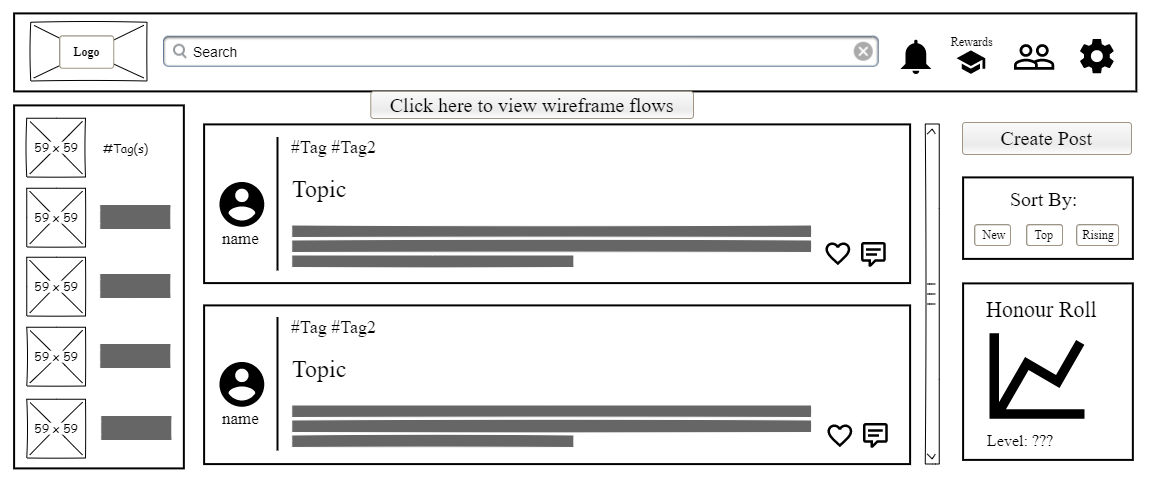
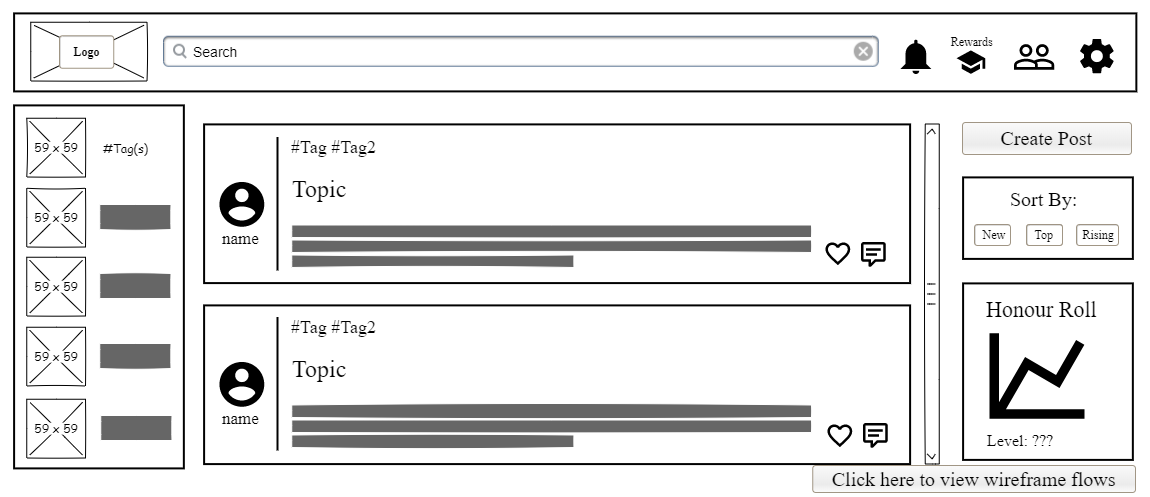
Add files via upload

diff --git a/index.html b/index.html
@@ -1,2 +1,2 @@
 <html xmlns="http://www.w3.org/1999/xhtml" xmlns:p="http://www.evolus.vn/Namespace/Pencil" xmlns:html="http://www.w3.org/1999/xhtml"><head><meta http-equiv="Content-Type" content="text/html; charset=UTF-8" />
-<title>wireframe</title><link rel="stylesheet" href="Resources/style.css" /><script type="application/javascript" src="Resources/script.js"></script></head><body><h1 id="documentTitle">wireframe</h1><p id="documentMetadata">Exported at: Mon Apr 13 2020 19:51:25 GMT-0400 (Eastern Daylight Time)</p><div class="Page" id="main_page_page"><h2>Main Page</h2><div class="ImageContainer"><img src="pages\main_page.png" width="1150" height="497" usemap="#map_main_page" /></div><map name="map_main_page"><area shape="rect" coords="370.75,91.50003051757812,693.5,118.500030517578" href="#flow_chart_image_page" title="Go to page 'Flow Chart Image'" /><area shape="rect" coords="278.5002746582031,306.4001159667969,908.850250244141,465.088134765625" href="#comment_page_page" title="Go to page 'Comment Page'" /><area shape="rect" coords="215,359,267,430" href="#user_profile_page" title="Go to page 'User Profile'" /><area shape="rect" coords="216,177,268,248" href="#user_profile_page" title="Go to page 'User Profile'" /><area shape="rect" coords="1074,36,1122,76" href="#settings_page" title="Go to page 'Settings'" /><area shape="rect" coords="1011,36,1059,76" href="#friends_list_page" title="Go to page 'Friends List'" /><area shape="rect" coords="948,36,996,76" href="#honor_roll_page" title="Go to page 'Honor Roll'" /><area shape="rect" coords="891,36,939,76" href="#notifications_page" title="Go to page 'Notifications'" /><area shape="rect" coords="962.5,122.5000228881836,1131.5,154.500030517578" href="#make_a_post_page" title="Go to page 'Make a Post'" /><area shape="rect" coords="26.750030517578125,399.25006103515625,85.6875305175781,458.187561035156" href="#search_results_page" title="Go to page 'Search Results'" /><area shape="rect" coords="26.750017166137695,327.25006103515625,85.6875171661377,386.187561035156" href="#search_results_page" title="Go to page 'Search Results'" /><area shape="rect" coords="26.750028610229492,257.2501525878906,85.6875286102295,316.187652587891" href="#search_results_page" title="Go to page 'Search Results'" /><area shape="rect" coords="26.75001335144043,188.2500457763672,85.6875133514404,247.187545776367" href="#search_results_page" title="Go to page 'Search Results'" /><area shape="rect" coords="26.000024795532227,118.25007629394531,85.5000247955322,177.187576293945" href="#search_results_page" title="Go to page 'Search Results'" /><area shape="rect" coords="163,35.75004196166992,878.75,66.7500457763672" href="#search_results_page" title="Go to page 'Search Results'" /><area shape="rect" coords="278.5002746582031,125.40011596679688,908.850250244141,284.088134765625" href="#comment_page_page" title="Go to page 'Comment Page'" /></map></div><div class="Page" id="honor_roll_page"><h2>Honor Roll</h2><div class="ImageContainer"><img src="pages\honor_roll.png" width="1150" height="497" usemap="#map_honor_roll" /></div><map name="map_honor_roll"><area shape="rect" coords="26.750030517578125,400.25006103515625,85.6875305175781,459.187561035156" href="#search_results_page" title="Go to page 'Search Results'" /><area shape="rect" coords="26.750015258789062,328.25006103515625,85.6875152587891,387.187561035156" href="#search_results_page" title="Go to page 'Search Results'" /><area shape="rect" coords="26.750030517578125,258.2501525878906,85.6875305175781,317.187652587891" href="#search_results_page" title="Go to page 'Search Results'" /><area shape="rect" coords="26.750015258789062,189.2500457763672,85.6875152587891,248.187545776367" href="#search_results_page" title="Go to page 'Search Results'" /><area shape="rect" coords="26.00002670288086,119.25007629394531,85.5000305175781,178.187576293945" href="#search_results_page" title="Go to page 'Search Results'" /><area shape="rect" coords="1074,36,1122,76" href="#settings_page" title="Go to page 'Settings'" /><area shape="rect" coords="1011,36,1059,76" href="#friends_list_page" title="Go to page 'Friends List'" /><area shape="rect" coords="948,36,996,76" href="#honor_roll_page" title="Go to page 'Honor Roll'" /><area shape="rect" coords="891,36,939,76" href="#notifications_page" title="Go to page 'Notifications'" /><area shape="rect" coords="163,35.75004196166992,878.75,66.7500457763672" href="#search_results_page" title="Go to page 'Search Results'" /><area shape="rect" coords="30.000003814697266,21.500045776367188,147.000003814697,81.0000457763672" href="#main_page_page" title="Go to page 'Main Page'" /></map></div><div class="Page" id="comment_page_page"><h2>Comment Page</h2><div class="ImageContainer"><img src="pages\comment_page.png" width="1150" height="497" usemap="#map_comment_page" /></div><map name="map_comment_page"><area shape="rect" coords="328.5002746582031,454.9701232910156,355.170288085938,481.837615966797" href="#user_profile_page" title="Go to page 'User Profile'" /><area shape="rect" coords="328.5002746582031,417.9701232910156,355.170288085938,444.837615966797" href="#user_profile_page" title="Go to page 'User Profile'" /><area shape="rect" coords="253.50027465820312,336.6501159667969,303.850280761719,387.837615966797" href="#user_profile_page" title="Go to page 'User Profile'" /><area shape="rect" coords="218.50027465820312,171.65011596679688,268.850280761719,239.087615966797" href="#user_profile_page" title="Go to page 'User Profile'" /><area shape="rect" coords="26.750030517578125,398.25006103515625,85.6875305175781,457.187561035156" href="#search_results_page" title="Go to page 'Search Results'" /><area shape="rect" coords="26.750015258789062,326.25006103515625,85.6875152587891,385.187561035156" href="#search_results_page" title="Go to page 'Search Results'" /><area shape="rect" coords="26.750030517578125,256.2501525878906,85.6875305175781,315.187652587891" href="#search_results_page" title="Go to page 'Search Results'" /><area shape="rect" coords="26.750015258789062,187.2500457763672,85.6875152587891,246.187545776367" href="#search_results_page" title="Go to page 'Search Results'" /><area shape="rect" coords="26.00002670288086,117.25007629394531,85.5000305175781,176.187576293945" href="#search_results_page" title="Go to page 'Search Results'" /><area shape="rect" coords="1074,35,1122,75" href="#settings_page" title="Go to page 'Settings'" /><area shape="rect" coords="1011,35,1059,75" href="#friends_list_page" title="Go to page 'Friends List'" /><area shape="rect" coords="948,35,996,75" href="#honor_roll_page" title="Go to page 'Honor Roll'" /><area shape="rect" coords="891,35,939,75" href="#notifications_page" title="Go to page 'Notifications'" /><area shape="rect" coords="163,34.75004577636719,878.75,65.7500457763672" href="#search_results_page" title="Go to page 'Search Results'" /><area shape="rect" coords="30,20.500045776367188,147,80.0000457763672" href="#main_page_page" title="Go to page 'Main Page'" /><area shape="rect" coords="966.5,112.5000228881836,1135.5,144.500030517578" href="#make_a_post_page" title="Go to page 'Make a Post'" /></map></div><div class="Page" id="user_profile_page"><h2>User Profile</h2><div class="ImageContainer"><img src="pages\user_profile.png" width="1150" height="497" usemap="#map_user_profile" /></div><map name="map_user_profile"><area shape="rect" coords="1074,36,1122,76" href="#settings_page" title="Go to page 'Settings'" /><area shape="rect" coords="1011,36,1059,76" href="#friends_list_page" title="Go to page 'Friends List'" /><area shape="rect" coords="948,36,996,76" href="#honor_roll_page" title="Go to page 'Honor Roll'" /><area shape="rect" coords="891,36,939,76" href="#notifications_page" title="Go to page 'Notifications'" /><area shape="rect" coords="163,35.75004577636719,878.75,66.7500457763672" href="#search_results_page" title="Go to page 'Search Results'" /><area shape="rect" coords="30,21.500045776367188,147,81.0000457763672" href="#main_page_page" title="Go to page 'Main Page'" /><area shape="rect" coords="885.5001220703125,204.75048828125,1113.25012207031,240.50048828125" href="#make_a_post_page" title="Go to page 'Make a Post'" /><area shape="rect" coords="886.8502807617188,264.15032958984375,1075.35034179688,465.838317871094" href="#comment_page_page" title="Go to page 'Comment Page'" /><area shape="rect" coords="660.8502807617188,264.9003601074219,849.350280761719,466.58837890625" href="#comment_page_page" title="Go to page 'Comment Page'" /><area shape="rect" coords="428.85028076171875,264.15032958984375,617.350280761719,465.838317871094" href="#comment_page_page" title="Go to page 'Comment Page'" /></map></div><div class="Page" id="search_results_page"><h2>Search Results</h2><div class="ImageContainer"><img src="pages\search_results.png" width="1150" height="497" usemap="#map_search_results" /></div><map name="map_search_results"><area shape="rect" coords="215,383,267,454" href="#user_profile_page" title="Go to page 'User Profile'" /><area shape="rect" coords="278.5002746582031,347.4001159667969,908.850250244141,485.608093261719" href="#comment_page_page" title="Go to page 'Comment Page'" /><area shape="rect" coords="215,225,267,296" href="#user_profile_page" title="Go to page 'User Profile'" /><area shape="rect" coords="278.5002746582031,189.40011596679688,908.850250244141,327.608093261719" href="#comment_page_page" title="Go to page 'Comment Page'" /><area shape="rect" coords="26.750030517578125,397.25006103515625,85.6875305175781,456.187561035156" href="#search_results_page" title="Go to page 'Search Results'" /><area shape="rect" coords="26.750015258789062,325.25006103515625,85.6875152587891,384.187561035156" href="#search_results_page" title="Go to page 'Search Results'" /><area shape="rect" coords="26.750030517578125,255.25015258789062,85.6875305175781,314.187652587891" href="#search_results_page" title="Go to page 'Search Results'" /><area shape="rect" coords="26.750015258789062,186.2500457763672,85.6875152587891,245.187545776367" href="#search_results_page" title="Go to page 'Search Results'" /><area shape="rect" coords="26.00002670288086,116.25007629394531,85.5000305175781,175.187576293945" href="#search_results_page" title="Go to page 'Search Results'" /><area shape="rect" coords="1074,35,1122,75" href="#settings_page" title="Go to page 'Settings'" /><area shape="rect" coords="1011,35,1059,75" href="#friends_list_page" title="Go to page 'Friends List'" /><area shape="rect" coords="948,35,996,75" href="#honor_roll_page" title="Go to page 'Honor Roll'" /><area shape="rect" coords="891,35,939,75" href="#notifications_page" title="Go to page 'Notifications'" /><area shape="rect" coords="163,34.75004577636719,878.75,65.7500457763672" href="#search_results_page" title="Go to page 'Search Results'" /><area shape="rect" coords="30,20.500045776367188,147,80.0000457763672" href="#main_page_page" title="Go to page 'Main Page'" /><area shape="rect" coords="966.5,112.5000228881836,1135.5,144.500030517578" href="#make_a_post_page" title="Go to page 'Make a Post'" /></map></div><div class="Page" id="make_a_post_page"><h2>Make a Post</h2><div class="ImageContainer"><img src="pages\make_a_post.png" width="1150" height="497" usemap="#map_make_a_post" /></div><map name="map_make_a_post"><area shape="rect" coords="842,390,930.25,446" href="#main_page_page" title="Go to page 'Main Page'" /><area shape="rect" coords="26.750030517578125,397.25006103515625,85.6875305175781,456.187561035156" href="#search_results_page" title="Go to page 'Search Results'" /><area shape="rect" coords="26.750017166137695,325.25006103515625,85.6875171661377,384.187561035156" href="#search_results_page" title="Go to page 'Search Results'" /><area shape="rect" coords="26.750028610229492,255.25015258789062,85.6875286102295,314.187652587891" href="#search_results_page" title="Go to page 'Search Results'" /><area shape="rect" coords="26.75001335144043,186.2500457763672,85.6875133514404,245.187545776367" href="#search_results_page" title="Go to page 'Search Results'" /><area shape="rect" coords="26.000024795532227,116.25007629394531,85.5000247955322,175.187576293945" href="#search_results_page" title="Go to page 'Search Results'" /><area shape="rect" coords="1074,35,1122,75" href="#settings_page" title="Go to page 'Settings'" /><area shape="rect" coords="1011,35,1059,75" href="#friends_list_page" title="Go to page 'Friends List'" /><area shape="rect" coords="948,35,996,75" href="#honor_roll_page" title="Go to page 'Honor Roll'" /><area shape="rect" coords="891,35,939,75" href="#notifications_page" title="Go to page 'Notifications'" /><area shape="rect" coords="163,34.75004577636719,878.75,65.7500457763672" href="#search_results_page" title="Go to page 'Search Results'" /><area shape="rect" coords="30,20.500045776367188,147,80.0000457763672" href="#main_page_page" title="Go to page 'Main Page'" /></map></div><div class="Page" id="friends_list_page"><h2>Friends List</h2><div class="ImageContainer"><img src="pages\friends_list.png" width="1150" height="497" usemap="#map_friends_list" /></div><map name="map_friends_list"><area shape="rect" coords="577,360.5,655.25,444" href="#user_profile_page" title="Go to page 'User Profile'" /><area shape="rect" coords="576,240.5,654.25,324" href="#user_profile_page" title="Go to page 'User Profile'" /><area shape="rect" coords="298,362.5,376.25,446" href="#user_profile_page" title="Go to page 'User Profile'" /><area shape="rect" coords="298,244.5,376.25,328" href="#user_profile_page" title="Go to page 'User Profile'" /><area shape="rect" coords="929.5,132.50003051757812,1098.5,164.500030517578" href="#user_profile_page" title="Go to page 'User Profile'" /><area shape="rect" coords="26.750030517578125,397.25006103515625,85.6875305175781,456.187561035156" href="#search_results_page" title="Go to page 'Search Results'" /><area shape="rect" coords="26.750015258789062,325.25006103515625,85.6875152587891,384.187561035156" href="#search_results_page" title="Go to page 'Search Results'" /><area shape="rect" coords="26.750030517578125,255.25015258789062,85.6875305175781,314.187652587891" href="#search_results_page" title="Go to page 'Search Results'" /><area shape="rect" coords="26.750015258789062,186.2500457763672,85.6875152587891,245.187545776367" href="#search_results_page" title="Go to page 'Search Results'" /><area shape="rect" coords="26.000022888183594,116.25007629394531,85.5000228881836,175.187576293945" href="#search_results_page" title="Go to page 'Search Results'" /><area shape="rect" coords="1074,35,1122,75" href="#settings_page" title="Go to page 'Settings'" /><area shape="rect" coords="1011,35,1059,75" href="#friends_list_page" title="Go to page 'Friends List'" /><area shape="rect" coords="948,35,996,75" href="#honor_roll_page" title="Go to page 'Honor Roll'" /><area shape="rect" coords="891,35,939,75" href="#notifications_page" title="Go to page 'Notifications'" /><area shape="rect" coords="163,34.75004577636719,878.75,65.7500457763672" href="#search_results_page" title="Go to page 'Search Results'" /><area shape="rect" coords="30,20.500045776367188,147,80.0000457763672" href="#main_page_page" title="Go to page 'Main Page'" /><area shape="rect" coords="929.5,177.50003051757812,1098.5,209.500030517578" href="#make_a_post_page" title="Go to page 'Make a Post'" /></map></div><div class="Page" id="about_us_page"><h2>About Us</h2><div class="ImageContainer"><img src="pages\about_us.png" width="1150" height="497" usemap="#map_about_us" /></div><map name="map_about_us"><area shape="rect" coords="1074,35,1122,75" href="#settings_page" title="Go to page 'Settings'" /><area shape="rect" coords="1011,35,1059,75" href="#friends_list_page" title="Go to page 'Friends List'" /><area shape="rect" coords="948,35,996,75" href="#honor_roll_page" title="Go to page 'Honor Roll'" /><area shape="rect" coords="891,35,939,75" href="#notifications_page" title="Go to page 'Notifications'" /><area shape="rect" coords="163,34.75004577636719,878.75,65.7500457763672" href="#search_results_page" title="Go to page 'Search Results'" /><area shape="rect" coords="30,20.500045776367188,147,80.0000457763672" href="#main_page_page" title="Go to page 'Main Page'" /></map></div><div class="Page" id="help_centre_page"><h2>Help Centre</h2><div class="ImageContainer"><img src="pages\help_centre.png" width="1150" height="497" usemap="#map_help_centre" /></div><map name="map_help_centre"><area shape="rect" coords="1074,35,1122,75" href="#settings_page" title="Go to page 'Settings'" /><area shape="rect" coords="1011,35,1059,75" href="#friends_list_page" title="Go to page 'Friends List'" /><area shape="rect" coords="948,35,996,75" href="#honor_roll_page" title="Go to page 'Honor Roll'" /><area shape="rect" coords="891,35,939,75" href="#notifications_page" title="Go to page 'Notifications'" /><area shape="rect" coords="163,34.75004577636719,878.75,65.7500457763672" href="#search_results_page" title="Go to page 'Search Results'" /><area shape="rect" coords="30,20.500045776367188,147,80.0000457763672" href="#main_page_page" title="Go to page 'Main Page'" /></map></div><div class="Page" id="settings_page"><h2>Settings</h2><div class="ImageContainer"><img src="pages\settings.png" width="1150" height="497" usemap="#map_settings" /></div><map name="map_settings"><area shape="rect" coords="1057.5,128,1103,168" href="#about_us_page" title="Go to page 'About Us'" /><area shape="rect" coords="1006.5,128,1052,168" href="#help_centre_page" title="Go to page 'Help Centre'" /><area shape="rect" coords="824.5,133.50003051757812,993.5,165.500030517578" href="#user_profile_page" title="Go to page 'User Profile'" /><area shape="rect" coords="1074,35,1122,75" href="#settings_page" title="Go to page 'Settings'" /><area shape="rect" coords="1011,35,1059,75" href="#friends_list_page" title="Go to page 'Friends List'" /><area shape="rect" coords="948,35,996,75" href="#honor_roll_page" title="Go to page 'Honor Roll'" /><area shape="rect" coords="891,35,939,75" href="#notifications_page" title="Go to page 'Notifications'" /><area shape="rect" coords="163,34.75004577636719,878.75,65.7500457763672" href="#search_results_page" title="Go to page 'Search Results'" /><area shape="rect" coords="30,20.500045776367188,147,80.0000457763672" href="#main_page_page" title="Go to page 'Main Page'" /></map></div><div class="Page" id="notifications_page"><h2>Notifications</h2><div class="ImageContainer"><img src="pages\notifications.png" width="1150" height="497" usemap="#map_notifications" /></div><map name="map_notifications"><area shape="rect" coords="26.750030517578125,397.25006103515625,85.6875305175781,456.187561035156" href="#search_results_page" title="Go to page 'Search Results'" /><area shape="rect" coords="26.750015258789062,325.25006103515625,85.6875152587891,384.187561035156" href="#search_results_page" title="Go to page 'Search Results'" /><area shape="rect" coords="26.750030517578125,255.25015258789062,85.6875305175781,314.187652587891" href="#search_results_page" title="Go to page 'Search Results'" /><area shape="rect" coords="26.750015258789062,186.2500457763672,85.6875152587891,245.187545776367" href="#search_results_page" title="Go to page 'Search Results'" /><area shape="rect" coords="26.00002670288086,116.25007629394531,85.5000305175781,175.187576293945" href="#search_results_page" title="Go to page 'Search Results'" /><area shape="rect" coords="1074,35,1122,75" href="#settings_page" title="Go to page 'Settings'" /><area shape="rect" coords="1011,35,1059,75" href="#friends_list_page" title="Go to page 'Friends List'" /><area shape="rect" coords="948,35,996,75" href="#honor_roll_page" title="Go to page 'Honor Roll'" /><area shape="rect" coords="891,35,939,75" href="#notifications_page" title="Go to page 'Notifications'" /><area shape="rect" coords="163,34.75004577636719,878.75,65.7500457763672" href="#search_results_page" title="Go to page 'Search Results'" /><area shape="rect" coords="30,20.500045776367188,147,80.0000457763672" href="#main_page_page" title="Go to page 'Main Page'" /><area shape="rect" coords="272.0000305175781,407.0001220703125,832.000030517578,452.000122070313" href="#comment_page_page" title="Go to page 'Comment Page'" /><area shape="rect" coords="272.0000305175781,348.0001220703125,832.000030517578,393.000122070313" href="#comment_page_page" title="Go to page 'Comment Page'" /><area shape="rect" coords="272.0000305175781,290.0001220703125,832.000030517578,335.000122070313" href="#comment_page_page" title="Go to page 'Comment Page'" /><area shape="rect" coords="272.0000305175781,228.00010681152344,832.000030517578,273.000122070313" href="#comment_page_page" title="Go to page 'Comment Page'" /><area shape="rect" coords="966.5,122.5000228881836,1135.5,154.500030517578" href="#make_a_post_page" title="Go to page 'Make a Post'" /></map></div><div class="Page" id="flow_chart_image_page"><h2>Flow Chart Image</h2><div class="ImageContainer"><img src="pages\flow_chart_image.png" width="4500" height="4500" usemap="#map_flow_chart_image" /></div><map name="map_flow_chart_image"><area shape="rect" coords="76.5,4253.90673828125,1765.42004394531,4428.95751953125" href="#main_page_page" title="Go to page 'Main Page'" /></map></div></body></html>
+<title>wireframe</title><link rel="stylesheet" href="Resources/style.css" /><script type="application/javascript" src="Resources/script.js"></script></head><body><h1 id="documentTitle">wireframe</h1><p id="documentMetadata">Exported at: Mon Apr 13 2020 20:11:35 GMT-0400 (Eastern Daylight Time)</p><div class="Page" id="main_page_page"><h2>Main Page</h2><div class="ImageContainer"><img src="pages\main_page.png" width="1150" height="497" usemap="#map_main_page" /></div><map name="map_main_page"><area shape="rect" coords="812.75,465.5000305175781,1135.5,492.500030517578" href="#flow_chart_image_page" title="Go to page 'Flow Chart Image'" /><area shape="rect" coords="278.5002746582031,306.4001159667969,908.850250244141,465.088134765625" href="#comment_page_page" title="Go to page 'Comment Page'" /><area shape="rect" coords="215,359,267,430" href="#user_profile_page" title="Go to page 'User Profile'" /><area shape="rect" coords="216,177,268,248" href="#user_profile_page" title="Go to page 'User Profile'" /><area shape="rect" coords="1074,36,1122,76" href="#settings_page" title="Go to page 'Settings'" /><area shape="rect" coords="1011,36,1059,76" href="#friends_list_page" title="Go to page 'Friends List'" /><area shape="rect" coords="948,36,996,76" href="#honor_roll_page" title="Go to page 'Honor Roll'" /><area shape="rect" coords="891,36,939,76" href="#notifications_page" title="Go to page 'Notifications'" /><area shape="rect" coords="962.5,122.5000228881836,1131.5,154.500030517578" href="#make_a_post_page" title="Go to page 'Make a Post'" /><area shape="rect" coords="26.750030517578125,399.25006103515625,85.6875305175781,458.187561035156" href="#search_results_page" title="Go to page 'Search Results'" /><area shape="rect" coords="26.750017166137695,327.25006103515625,85.6875171661377,386.000061035156" href="#search_results_page" title="Go to page 'Search Results'" /><area shape="rect" coords="26.750028610229492,257.2501525878906,85.6875286102295,316.187652587891" href="#search_results_page" title="Go to page 'Search Results'" /><area shape="rect" coords="26.75001335144043,188.2500457763672,85.6875133514404,247.187545776367" href="#search_results_page" title="Go to page 'Search Results'" /><area shape="rect" coords="26.750024795532227,118.25007629394531,85.6875247955322,177.187576293945" href="#search_results_page" title="Go to page 'Search Results'" /><area shape="rect" coords="163,35.75004196166992,878.75,66.7500457763672" href="#search_results_page" title="Go to page 'Search Results'" /><area shape="rect" coords="278.5002746582031,125.40011596679688,908.850250244141,284.088134765625" href="#comment_page_page" title="Go to page 'Comment Page'" /></map></div><div class="Page" id="honor_roll_page"><h2>Honor Roll</h2><div class="ImageContainer"><img src="pages\honor_roll.png" width="1150" height="497" usemap="#map_honor_roll" /></div><map name="map_honor_roll"><area shape="rect" coords="26.750030517578125,400.25006103515625,85.6875305175781,459.187561035156" href="#search_results_page" title="Go to page 'Search Results'" /><area shape="rect" coords="26.750015258789062,328.25006103515625,85.6875152587891,387.187561035156" href="#search_results_page" title="Go to page 'Search Results'" /><area shape="rect" coords="26.750030517578125,258.2501525878906,85.6875305175781,317.187652587891" href="#search_results_page" title="Go to page 'Search Results'" /><area shape="rect" coords="26.750015258789062,189.2500457763672,85.6875152587891,248.187545776367" href="#search_results_page" title="Go to page 'Search Results'" /><area shape="rect" coords="26.00002670288086,119.25007629394531,85.5000305175781,178.187576293945" href="#search_results_page" title="Go to page 'Search Results'" /><area shape="rect" coords="1074,36,1122,76" href="#settings_page" title="Go to page 'Settings'" /><area shape="rect" coords="1011,36,1059,76" href="#friends_list_page" title="Go to page 'Friends List'" /><area shape="rect" coords="948,36,996,76" href="#honor_roll_page" title="Go to page 'Honor Roll'" /><area shape="rect" coords="891,36,939,76" href="#notifications_page" title="Go to page 'Notifications'" /><area shape="rect" coords="163,35.75004196166992,878.75,66.7500457763672" href="#search_results_page" title="Go to page 'Search Results'" /><area shape="rect" coords="30.000003814697266,21.500045776367188,147.000003814697,81.0000457763672" href="#main_page_page" title="Go to page 'Main Page'" /></map></div><div class="Page" id="comment_page_page"><h2>Comment Page</h2><div class="ImageContainer"><img src="pages\comment_page.png" width="1150" height="497" usemap="#map_comment_page" /></div><map name="map_comment_page"><area shape="rect" coords="328.5002746582031,454.9701232910156,355.170288085938,481.837615966797" href="#user_profile_page" title="Go to page 'User Profile'" /><area shape="rect" coords="328.5002746582031,417.9701232910156,355.170288085938,444.837615966797" href="#user_profile_page" title="Go to page 'User Profile'" /><area shape="rect" coords="253.50027465820312,336.6501159667969,303.850280761719,387.837615966797" href="#user_profile_page" title="Go to page 'User Profile'" /><area shape="rect" coords="218.50027465820312,171.65011596679688,268.850280761719,239.087615966797" href="#user_profile_page" title="Go to page 'User Profile'" /><area shape="rect" coords="26.750030517578125,398.25006103515625,85.6875305175781,457.187561035156" href="#search_results_page" title="Go to page 'Search Results'" /><area shape="rect" coords="26.750015258789062,326.25006103515625,85.6875152587891,385.187561035156" href="#search_results_page" title="Go to page 'Search Results'" /><area shape="rect" coords="26.750030517578125,256.2501525878906,85.6875305175781,315.187652587891" href="#search_results_page" title="Go to page 'Search Results'" /><area shape="rect" coords="26.750015258789062,187.2500457763672,85.6875152587891,246.187545776367" href="#search_results_page" title="Go to page 'Search Results'" /><area shape="rect" coords="26.00002670288086,117.25007629394531,85.5000305175781,176.187576293945" href="#search_results_page" title="Go to page 'Search Results'" /><area shape="rect" coords="1074,35,1122,75" href="#settings_page" title="Go to page 'Settings'" /><area shape="rect" coords="1011,35,1059,75" href="#friends_list_page" title="Go to page 'Friends List'" /><area shape="rect" coords="948,35,996,75" href="#honor_roll_page" title="Go to page 'Honor Roll'" /><area shape="rect" coords="891,35,939,75" href="#notifications_page" title="Go to page 'Notifications'" /><area shape="rect" coords="163,34.75004577636719,878.75,65.7500457763672" href="#search_results_page" title="Go to page 'Search Results'" /><area shape="rect" coords="30,20.500045776367188,147,80.0000457763672" href="#main_page_page" title="Go to page 'Main Page'" /><area shape="rect" coords="966.5,112.5000228881836,1135.5,144.500030517578" href="#make_a_post_page" title="Go to page 'Make a Post'" /></map></div><div class="Page" id="user_profile_page"><h2>User Profile</h2><div class="ImageContainer"><img src="pages\user_profile.png" width="1150" height="497" usemap="#map_user_profile" /></div><map name="map_user_profile"><area shape="rect" coords="1074,36,1122,76" href="#settings_page" title="Go to page 'Settings'" /><area shape="rect" coords="1011,36,1059,76" href="#friends_list_page" title="Go to page 'Friends List'" /><area shape="rect" coords="948,36,996,76" href="#honor_roll_page" title="Go to page 'Honor Roll'" /><area shape="rect" coords="891,36,939,76" href="#notifications_page" title="Go to page 'Notifications'" /><area shape="rect" coords="163,35.75004577636719,878.75,66.7500457763672" href="#search_results_page" title="Go to page 'Search Results'" /><area shape="rect" coords="30,21.500045776367188,147,81.0000457763672" href="#main_page_page" title="Go to page 'Main Page'" /><area shape="rect" coords="885.5001220703125,204.75048828125,1113.25012207031,240.50048828125" href="#make_a_post_page" title="Go to page 'Make a Post'" /><area shape="rect" coords="886.8502807617188,264.15032958984375,1075.35034179688,465.838317871094" href="#comment_page_page" title="Go to page 'Comment Page'" /><area shape="rect" coords="660.8502807617188,264.9003601074219,849.350280761719,466.58837890625" href="#comment_page_page" title="Go to page 'Comment Page'" /><area shape="rect" coords="428.85028076171875,264.15032958984375,617.350280761719,465.838317871094" href="#comment_page_page" title="Go to page 'Comment Page'" /></map></div><div class="Page" id="search_results_page"><h2>Search Results</h2><div class="ImageContainer"><img src="pages\search_results.png" width="1150" height="497" usemap="#map_search_results" /></div><map name="map_search_results"><area shape="rect" coords="215,383,267,454" href="#user_profile_page" title="Go to page 'User Profile'" /><area shape="rect" coords="278.5002746582031,347.4001159667969,908.850250244141,485.608093261719" href="#comment_page_page" title="Go to page 'Comment Page'" /><area shape="rect" coords="215,225,267,296" href="#user_profile_page" title="Go to page 'User Profile'" /><area shape="rect" coords="278.5002746582031,189.40011596679688,908.850250244141,327.608093261719" href="#comment_page_page" title="Go to page 'Comment Page'" /><area shape="rect" coords="26.750030517578125,397.25006103515625,85.6875305175781,456.187561035156" href="#search_results_page" title="Go to page 'Search Results'" /><area shape="rect" coords="26.750015258789062,325.25006103515625,85.6875152587891,384.187561035156" href="#search_results_page" title="Go to page 'Search Results'" /><area shape="rect" coords="26.750030517578125,255.25015258789062,85.6875305175781,314.187652587891" href="#search_results_page" title="Go to page 'Search Results'" /><area shape="rect" coords="26.750015258789062,186.2500457763672,85.6875152587891,245.187545776367" href="#search_results_page" title="Go to page 'Search Results'" /><area shape="rect" coords="26.00002670288086,116.25007629394531,85.5000305175781,175.187576293945" href="#search_results_page" title="Go to page 'Search Results'" /><area shape="rect" coords="1074,35,1122,75" href="#settings_page" title="Go to page 'Settings'" /><area shape="rect" coords="1011,35,1059,75" href="#friends_list_page" title="Go to page 'Friends List'" /><area shape="rect" coords="948,35,996,75" href="#honor_roll_page" title="Go to page 'Honor Roll'" /><area shape="rect" coords="891,35,939,75" href="#notifications_page" title="Go to page 'Notifications'" /><area shape="rect" coords="163,34.75004577636719,878.75,65.7500457763672" href="#search_results_page" title="Go to page 'Search Results'" /><area shape="rect" coords="30,20.500045776367188,147,80.0000457763672" href="#main_page_page" title="Go to page 'Main Page'" /><area shape="rect" coords="966.5,112.5000228881836,1135.5,144.500030517578" href="#make_a_post_page" title="Go to page 'Make a Post'" /></map></div><div class="Page" id="make_a_post_page"><h2>Make a Post</h2><div class="ImageContainer"><img src="pages\make_a_post.png" width="1150" height="497" usemap="#map_make_a_post" /></div><map name="map_make_a_post"><area shape="rect" coords="842,390,930.25,446" href="#main_page_page" title="Go to page 'Main Page'" /><area shape="rect" coords="26.750030517578125,397.25006103515625,85.6875305175781,456.187561035156" href="#search_results_page" title="Go to page 'Search Results'" /><area shape="rect" coords="26.750017166137695,325.25006103515625,85.6875171661377,384.187561035156" href="#search_results_page" title="Go to page 'Search Results'" /><area shape="rect" coords="26.750028610229492,255.25015258789062,85.6875286102295,314.187652587891" href="#search_results_page" title="Go to page 'Search Results'" /><area shape="rect" coords="26.75001335144043,186.2500457763672,85.6875133514404,245.187545776367" href="#search_results_page" title="Go to page 'Search Results'" /><area shape="rect" coords="26.000024795532227,116.25007629394531,85.5000247955322,175.187576293945" href="#search_results_page" title="Go to page 'Search Results'" /><area shape="rect" coords="1074,35,1122,75" href="#settings_page" title="Go to page 'Settings'" /><area shape="rect" coords="1011,35,1059,75" href="#friends_list_page" title="Go to page 'Friends List'" /><area shape="rect" coords="948,35,996,75" href="#honor_roll_page" title="Go to page 'Honor Roll'" /><area shape="rect" coords="891,35,939,75" href="#notifications_page" title="Go to page 'Notifications'" /><area shape="rect" coords="163,34.75004577636719,878.75,65.7500457763672" href="#search_results_page" title="Go to page 'Search Results'" /><area shape="rect" coords="30,20.500045776367188,147,80.0000457763672" href="#main_page_page" title="Go to page 'Main Page'" /></map></div><div class="Page" id="friends_list_page"><h2>Friends List</h2><div class="ImageContainer"><img src="pages\friends_list.png" width="1150" height="497" usemap="#map_friends_list" /></div><map name="map_friends_list"><area shape="rect" coords="577,360.5,655.25,444" href="#user_profile_page" title="Go to page 'User Profile'" /><area shape="rect" coords="576,240.5,654.25,324" href="#user_profile_page" title="Go to page 'User Profile'" /><area shape="rect" coords="298,362.5,376.25,446" href="#user_profile_page" title="Go to page 'User Profile'" /><area shape="rect" coords="298,244.5,376.25,328" href="#user_profile_page" title="Go to page 'User Profile'" /><area shape="rect" coords="929.5,132.50003051757812,1098.5,164.500030517578" href="#user_profile_page" title="Go to page 'User Profile'" /><area shape="rect" coords="26.750030517578125,397.25006103515625,85.6875305175781,456.187561035156" href="#search_results_page" title="Go to page 'Search Results'" /><area shape="rect" coords="26.750015258789062,325.25006103515625,85.6875152587891,384.187561035156" href="#search_results_page" title="Go to page 'Search Results'" /><area shape="rect" coords="26.750030517578125,255.25015258789062,85.6875305175781,314.187652587891" href="#search_results_page" title="Go to page 'Search Results'" /><area shape="rect" coords="26.750015258789062,186.2500457763672,85.6875152587891,245.187545776367" href="#search_results_page" title="Go to page 'Search Results'" /><area shape="rect" coords="26.000022888183594,116.25007629394531,85.5000228881836,175.187576293945" href="#search_results_page" title="Go to page 'Search Results'" /><area shape="rect" coords="1074,35,1122,75" href="#settings_page" title="Go to page 'Settings'" /><area shape="rect" coords="1011,35,1059,75" href="#friends_list_page" title="Go to page 'Friends List'" /><area shape="rect" coords="948,35,996,75" href="#honor_roll_page" title="Go to page 'Honor Roll'" /><area shape="rect" coords="891,35,939,75" href="#notifications_page" title="Go to page 'Notifications'" /><area shape="rect" coords="163,34.75004577636719,878.75,65.7500457763672" href="#search_results_page" title="Go to page 'Search Results'" /><area shape="rect" coords="30,20.500045776367188,147,80.0000457763672" href="#main_page_page" title="Go to page 'Main Page'" /><area shape="rect" coords="929.5,177.50003051757812,1098.5,209.500030517578" href="#make_a_post_page" title="Go to page 'Make a Post'" /></map></div><div class="Page" id="about_us_page"><h2>About Us</h2><div class="ImageContainer"><img src="pages\about_us.png" width="1150" height="497" usemap="#map_about_us" /></div><map name="map_about_us"><area shape="rect" coords="1074,35,1122,75" href="#settings_page" title="Go to page 'Settings'" /><area shape="rect" coords="1011,35,1059,75" href="#friends_list_page" title="Go to page 'Friends List'" /><area shape="rect" coords="948,35,996,75" href="#honor_roll_page" title="Go to page 'Honor Roll'" /><area shape="rect" coords="891,35,939,75" href="#notifications_page" title="Go to page 'Notifications'" /><area shape="rect" coords="163,34.75004577636719,878.75,65.7500457763672" href="#search_results_page" title="Go to page 'Search Results'" /><area shape="rect" coords="30,20.500045776367188,147,80.0000457763672" href="#main_page_page" title="Go to page 'Main Page'" /></map></div><div class="Page" id="help_centre_page"><h2>Help Centre</h2><div class="ImageContainer"><img src="pages\help_centre.png" width="1150" height="497" usemap="#map_help_centre" /></div><map name="map_help_centre"><area shape="rect" coords="1074,35,1122,75" href="#settings_page" title="Go to page 'Settings'" /><area shape="rect" coords="1011,35,1059,75" href="#friends_list_page" title="Go to page 'Friends List'" /><area shape="rect" coords="948,35,996,75" href="#honor_roll_page" title="Go to page 'Honor Roll'" /><area shape="rect" coords="891,35,939,75" href="#notifications_page" title="Go to page 'Notifications'" /><area shape="rect" coords="163,34.75004577636719,878.75,65.7500457763672" href="#search_results_page" title="Go to page 'Search Results'" /><area shape="rect" coords="30,20.500045776367188,147,80.0000457763672" href="#main_page_page" title="Go to page 'Main Page'" /></map></div><div class="Page" id="settings_page"><h2>Settings</h2><div class="ImageContainer"><img src="pages\settings.png" width="1150" height="497" usemap="#map_settings" /></div><map name="map_settings"><area shape="rect" coords="1057.5,128,1103,168" href="#about_us_page" title="Go to page 'About Us'" /><area shape="rect" coords="1006.5,128,1052,168" href="#help_centre_page" title="Go to page 'Help Centre'" /><area shape="rect" coords="824.5,133.50003051757812,993.5,165.500030517578" href="#user_profile_page" title="Go to page 'User Profile'" /><area shape="rect" coords="1074,35,1122,75" href="#settings_page" title="Go to page 'Settings'" /><area shape="rect" coords="1011,35,1059,75" href="#friends_list_page" title="Go to page 'Friends List'" /><area shape="rect" coords="948,35,996,75" href="#honor_roll_page" title="Go to page 'Honor Roll'" /><area shape="rect" coords="891,35,939,75" href="#notifications_page" title="Go to page 'Notifications'" /><area shape="rect" coords="163,34.75004577636719,878.75,65.7500457763672" href="#search_results_page" title="Go to page 'Search Results'" /><area shape="rect" coords="30,20.500045776367188,147,80.0000457763672" href="#main_page_page" title="Go to page 'Main Page'" /></map></div><div class="Page" id="notifications_page"><h2>Notifications</h2><div class="ImageContainer"><img src="pages\notifications.png" width="1150" height="497" usemap="#map_notifications" /></div><map name="map_notifications"><area shape="rect" coords="26.750030517578125,397.25006103515625,85.6875305175781,456.187561035156" href="#search_results_page" title="Go to page 'Search Results'" /><area shape="rect" coords="26.750015258789062,325.25006103515625,85.6875152587891,384.187561035156" href="#search_results_page" title="Go to page 'Search Results'" /><area shape="rect" coords="26.750030517578125,255.25015258789062,85.6875305175781,314.187652587891" href="#search_results_page" title="Go to page 'Search Results'" /><area shape="rect" coords="26.750015258789062,186.2500457763672,85.6875152587891,245.187545776367" href="#search_results_page" title="Go to page 'Search Results'" /><area shape="rect" coords="26.00002670288086,116.25007629394531,85.5000305175781,175.187576293945" href="#search_results_page" title="Go to page 'Search Results'" /><area shape="rect" coords="1074,35,1122,75" href="#settings_page" title="Go to page 'Settings'" /><area shape="rect" coords="1011,35,1059,75" href="#friends_list_page" title="Go to page 'Friends List'" /><area shape="rect" coords="948,35,996,75" href="#honor_roll_page" title="Go to page 'Honor Roll'" /><area shape="rect" coords="891,35,939,75" href="#notifications_page" title="Go to page 'Notifications'" /><area shape="rect" coords="163,34.75004577636719,878.75,65.7500457763672" href="#search_results_page" title="Go to page 'Search Results'" /><area shape="rect" coords="30,20.500045776367188,147,80.0000457763672" href="#main_page_page" title="Go to page 'Main Page'" /><area shape="rect" coords="272.0000305175781,407.0001220703125,832.000030517578,452.000122070313" href="#comment_page_page" title="Go to page 'Comment Page'" /><area shape="rect" coords="272.0000305175781,348.0001220703125,832.000030517578,393.000122070313" href="#comment_page_page" title="Go to page 'Comment Page'" /><area shape="rect" coords="272.0000305175781,290.0001220703125,832.000030517578,335.000122070313" href="#comment_page_page" title="Go to page 'Comment Page'" /><area shape="rect" coords="272.0000305175781,228.00010681152344,832.000030517578,273.000122070313" href="#comment_page_page" title="Go to page 'Comment Page'" /><area shape="rect" coords="966.5,122.5000228881836,1135.5,154.500030517578" href="#make_a_post_page" title="Go to page 'Make a Post'" /></map></div><div class="Page" id="flow_chart_image_page"><h2>Flow Chart Image</h2><div class="ImageContainer"><img src="pages\flow_chart_image.png" width="4500" height="4500" usemap="#map_flow_chart_image" /></div><map name="map_flow_chart_image"><area shape="rect" coords="76.5,4253.90673828125,1765.42004394531,4428.95751953125" href="#main_page_page" title="Go to page 'Main Page'" /></map></div></body></html>
